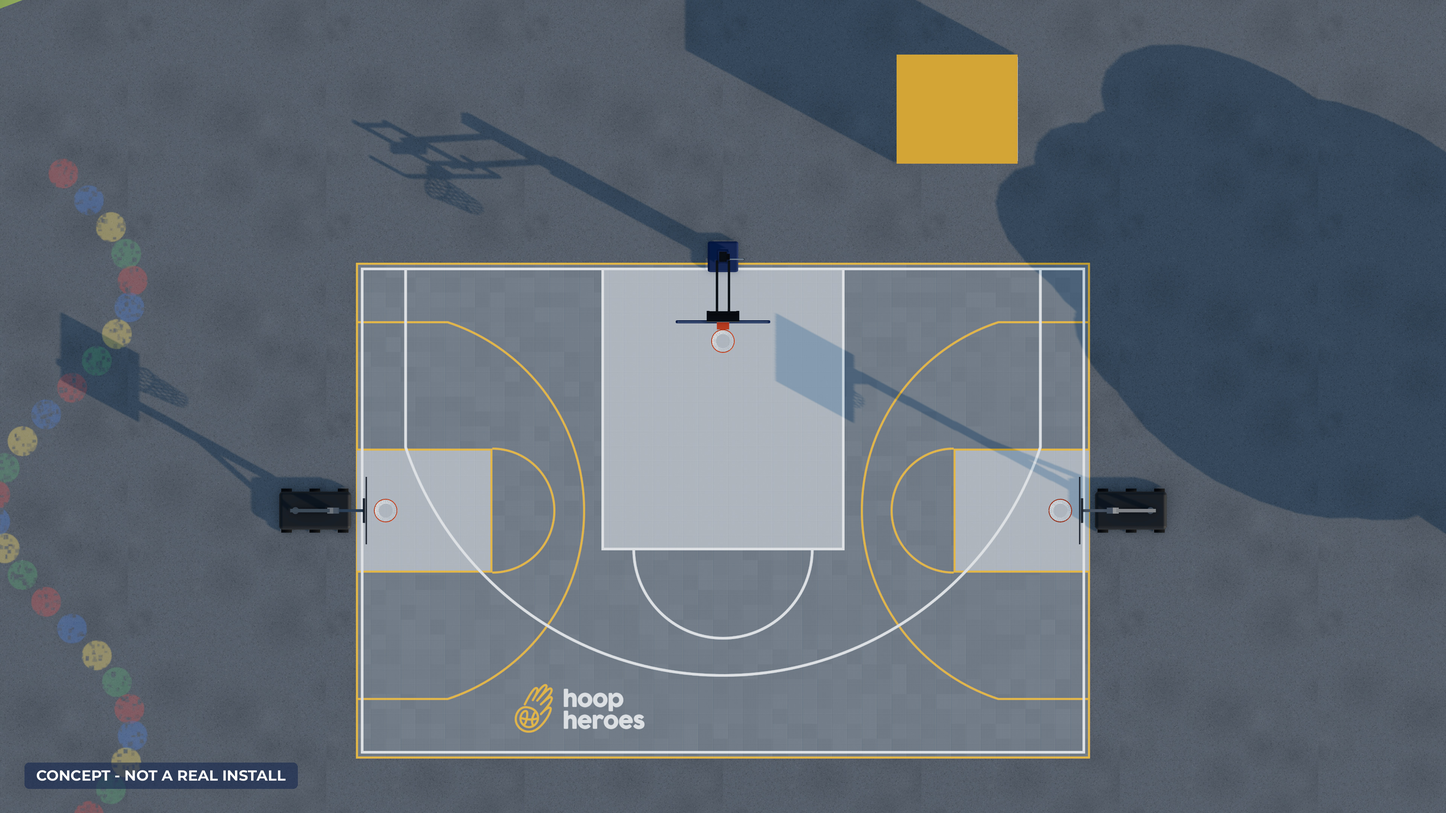
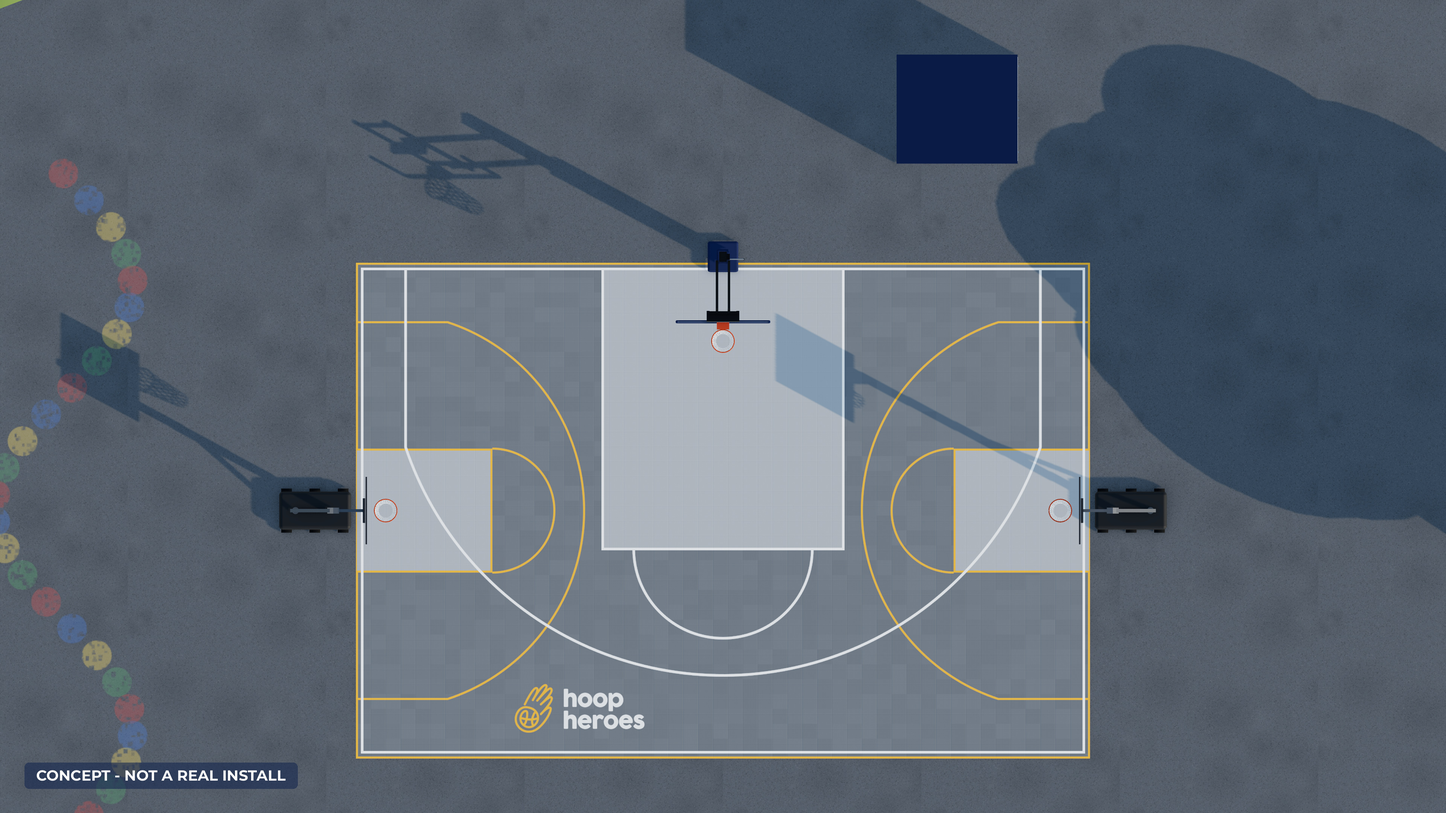
Switch container to the navy wrap
Navy billboard wrap becomes the default; 4K stills and v3 brief updated
to match.

Claude-Session: https://claude.ai/code/session_01UoyugYzmaTfuHsWdpUMhBc

Changed region(s): [[0.5938, 0.062, 0.7188, 0.2171]]

diff --git a/court-viz/index.html b/court-viz/index.html
@@ -77,7 +77,7 @@
     <button id="mini">Hoops out</button>
     <button id="doors">Container open</button>
     <button id="pad">Pad: navy</button>
-    <button id="wrap">Wrap: gold</button>
+    <button id="wrap">Wrap: navy</button>
     <label class="slider">Rim <input id="rim" type="range" min="5" max="10" step="0.5" value="10"> <span id="rimv">10 ft</span></label>
     <button id="fly">Fly-through</button>
   </div>

diff --git a/court-viz/scene.js b/court-viz/scene.js
@@ -1283,7 +1283,7 @@ export async function createHoopHub(renderer, { logoUrl = 'assets/logo.png' } = 
     });
   };
 
-  const state = { mini: true, rimFt: 10, padding: 'navy', wrap: 'gold', doors: 0, rollOut: 0 };
+  const state = { mini: true, rimFt: 10, padding: 'navy', wrap: 'navy', doors: 0, rollOut: 0 };
   const apply = (next = {}) => {
     Object.assign(state, next);
     megaSlam.setHeight(state.rimFt * FT);

diff --git a/court-viz/brief/build_brief.py b/court-viz/brief/build_brief.py
@@ -140,7 +140,7 @@ def build(media: Path, plan: Path, out: Path):
         "Markings simplified: all three keys are light grey; the gold mini court is a boundary just outside the white 3x3 boundary, plus at each end a key outline, a free-throw semicircle and a small 3-point line. There is no no-charge semicircle under the Mega Slam, and no mini-court halfway line or centre circle. The white 3x3 lines sit on top wherever they cross.",
         "The Mega Slam is not used in mini sessions. Because the mini court now covers the whole surface, the v2 idea of a lowered Mega Slam as a separate shooting station is dropped; in the mini-game shot it stays at 10 ft, not in use.",
         "Clear space beyond each sideline increased to 2.0 m so the portable hoop bases sit on tarmac.",
-        "Container is now a bright billboard in a gold wrap: huge logo and tagline on both long sides, a QR code (Book a FREE Trial) and round logo on the doors. Full-width ramp; two ball racks inside, no hanging bags.",
+        "Container is now a billboard in a navy wrap with a gold stripe: huge logo and tagline on both long sides, a QR code (Book a FREE Trial) and round logo on the doors. Full-width ramp; two ball racks inside, no hanging bags.",
         "Mega Slam padding is navy. The round Hoop Heroes logo goes on all three backboards.",
         "Coordinates, key dimensions, plan drawing (Section 3), shot list and Section 11 rewritten to match.",
     ]:
@@ -162,7 +162,7 @@ def build(media: Path, plan: Path, out: Path):
     bullet(doc, "Secondary: mini court (gold)", "a mini basketball court for younger children running across the 3x3 court, at 90 degrees to it. The 3x3 sidelines are its baselines, with a portable hoop at each. Its gold lines are a boundary just outside the white, and at each end a key, a free-throw semicircle and a small 3-point line.")
     bullet(doc, "Fixed hoop", "Mega Slam 72, in-ground: post set in the tarmac just behind the centre of the 14.8 m baseline, board overhanging the baseline. Used for 3x3 only.")
     bullet(doc, "Portable hoops", "two Tarmak B900 Box hoops (Decathlon) on wheeled bases, one just outside each 10 m sideline, centred on it and facing each other across the 14.8 m. Used for the mini court only.")
-    bullet(doc, "Storage container", "one 8 ft steel container, square to the court, set back behind and to one side of the main hoop, off the tiles. Wrapped as a bright gold billboard that is clearly ours and doubles as an advert.")
+    bullet(doc, "Storage container", "one 8 ft steel container, square to the court, set back behind and to one side of the main hoop, off the tiles. Wrapped as a navy and gold billboard that is clearly ours and doubles as an advert.")
     para(doc, "Phase 1 is open air. There is no canopy, roof, floodlights, toilet or building. Do not add any of these.", bold=True, color=NAVY)
 
     heading(doc, "3. Top-down plan (to scale)")
@@ -221,12 +221,12 @@ def build(media: Path, plan: Path, out: Path):
         ["Mega Slam padding", "Post and base pad, backboard edge pad", "Navy #14264e; small Hoop Heroes logo on the post pad"],
         ["Mega Slam backboard", "Tempered glass, clear", "Clear glass, white border and target box; round Hoop Heroes logo (navy version, about 0.36 m) centred above the target box"],
         ["Portable hoops", "Tarmak B900 Box: polycarbonate board 132 x 78 cm, six-wheel base", "Black / grey as supplied. Round Hoop Heroes logo (navy version, about 0.25 m) centred above the target box; no other brands"],
-        ["Storage container", "Steel mini container with end double doors", "Full vinyl wrap, gold #fba91a base with a navy #14264e stripe low down. Lettering and artwork as Section 8"],
+        ["Storage container", "Steel mini container with end double doors", "Full vinyl wrap, navy #14264e base with a gold #fba91a stripe low down. Lettering and artwork as Section 8"],
         ["Playground", "Weathered dark-grey tarmac with faded generic play markings (hopscotch, number snake)", "Natural, no readable text"],
         ["Any lettering", "Lilita One (headings, upper case); Montserrat (body)", "-"],
     ], [4.0, 6.7, 6.7])
     heading(doc, "5.1 Logo files (use these; do not redraw)", size=13)
-    bullet(doc, None, "Logo versions, all from the Hoop Heroes Drive (05 - Marketing / 01 - Logos & Brand): landscape logo with gold icon and white wordmark (court surface, Mega Slam pad); landscape logo with white icon and navy wordmark (gold container sides); round logo, navy (backboards, gold container doors and far end). Hoop Heroes will supply the artwork files.")
+    bullet(doc, None, "Logo versions, all from the Hoop Heroes Drive (05 - Marketing / 01 - Logos & Brand): landscape logo with gold icon and white wordmark (court surface, Mega Slam pad, container sides); round logo, navy (backboards); round logo, white (container doors and far end). Hoop Heroes will supply the artwork files.")
     bullet(doc, None, 'Logo rules: always write "Hoop Heroes" (two words). Do not recolour or distort the logo. Never put it on a white pill or badge over a dark background. Keep clear space around it equal to the height of the basketball icon. Do not use gold for small text on a white background.')
 
     heading(doc, "6. Fixed hoop: Mega Slam 72 (in-ground, height-adjustable)")
@@ -262,7 +262,7 @@ def build(media: Path, plan: Path, out: Path):
     heading(doc, "8. Storage container: 8 ft steel container as a billboard")
     bullet(doc, "Size", "8 ft mini container, 2.44 m long x 2.20 m deep x 2.26 m high, double doors on one 2.20 m end.")
     bullet(doc, "Position", "square to the court (not at an angle), long side parallel to the baseline, set back 2.0 m behind the back edge of the tiles and to the right of the main hoop seen from the open end, so it is clearly visible behind the hoop. Off the tiles, on the tarmac.")
-    bullet(doc, "Billboard wrap", "full vinyl wrap: gold #fba91a base with a navy #14264e stripe low down. Both long sides: the landscape logo (white icon, navy wordmark) as large as fits, with 'SWAP SCREENTIME FOR GAMETIME' beneath in navy Lilita One. Doors: one leaf carries a white panel with 'SCAN TO BOOK A FREE TRIAL' and a navy QR code; the other carries the round navy logo and 'HOOP HEROES'. Keep both clear of the vertical locking bars. Far end: the round navy logo, large. No contact details or school name.")
+    bullet(doc, "Billboard wrap", "full vinyl wrap: navy #14264e base with a gold #fba91a stripe low down. Both long sides: the landscape logo (gold icon, white wordmark) as large as fits, with 'SWAP SCREENTIME FOR GAMETIME' beneath in gold Lilita One. Doors: one leaf carries a white panel with 'SCAN TO BOOK A FREE TRIAL' and a navy QR code; the other carries the round white logo and 'HOOP HEROES' in gold. Keep both clear of the vertical locking bars. Far end: the round white logo, large. No contact details or school name.")
     bullet(doc, "Inside (shot 5 only)", "two folded portable hoops side by side, wheels towards the doors; two gold ball racks side by side at the back; no hanging bags. A ramp the full width of the doorway, so the hoops roll straight in and out.")
 
     heading(doc, "9. Setting, light and people")
@@ -278,7 +278,7 @@ def build(media: Path, plan: Path, out: Path):
     numbered(doc, 2, "Bird's-eye top-down", "orthographic or near-orthographic view straight down, framing the tiles, both portable hoops (out) and the container. Must show both line systems clearly (white 3x3; gold boundary, keys and 3-point lines) and the logo. Use it to cross-check against the plan.")
     numbered(doc, 3, "Mega Slam at three heights (3 stills, same camera)", "camera at the free-throw line extended, about 1.2 m high, about 30 degrees off the court axis, 28 to 35 mm lens. Rim at (a) 7 ft / 2.13 m, (b) 8.5 ft / 2.59 m, (c) 10 ft / 3.05 m. Show the post in the tarmac behind the tiles, the board overhanging the baseline, the crank handle and the overhang growing as the rim lowers.")
     numbered(doc, 4, "Cross-court mini game set-up", "elevated three-quarter aerial (about 8 to 10 m high) from an open-end corner. Both portable hoops out, one at each end of the mini court, facing each other across the 14.8 m over the gold keys. Mega Slam at 10 ft and not in use (see Section 11).")
-    numbered(doc, 5, "Storage container, doors open", "eye level, about 3 m from the open doors, 24 to 28 mm lens, court visible beside. Folded hoops and the two ball racks inside, full-width ramp at the sill; the gold billboard side partly visible. Optional: one portable hoop half rolled out down the ramp.")
+    numbered(doc, 5, "Storage container, doors open", "eye level, about 3 m from the open doors, 24 to 28 mm lens, court visible beside. Folded hoops and the two ball racks inside, full-width ramp at the sill; the navy billboard side partly visible. Optional: one portable hoop half rolled out down the ramp.")
     numbered(doc, 6, "Eye-level hero shot (cover image)", "child eye height (about 1.1 to 1.2 m), low and wide (24 mm), from the open end just behind the logo, looking towards the main hoop. The logo leads into the frame; the Mega Slam at 10 ft and the container billboard behind it. Warm late-afternoon light.")
     para(doc, "Total: 8 stills (shot 3 is 3 frames).", bold=True, color=NAVY)
 
